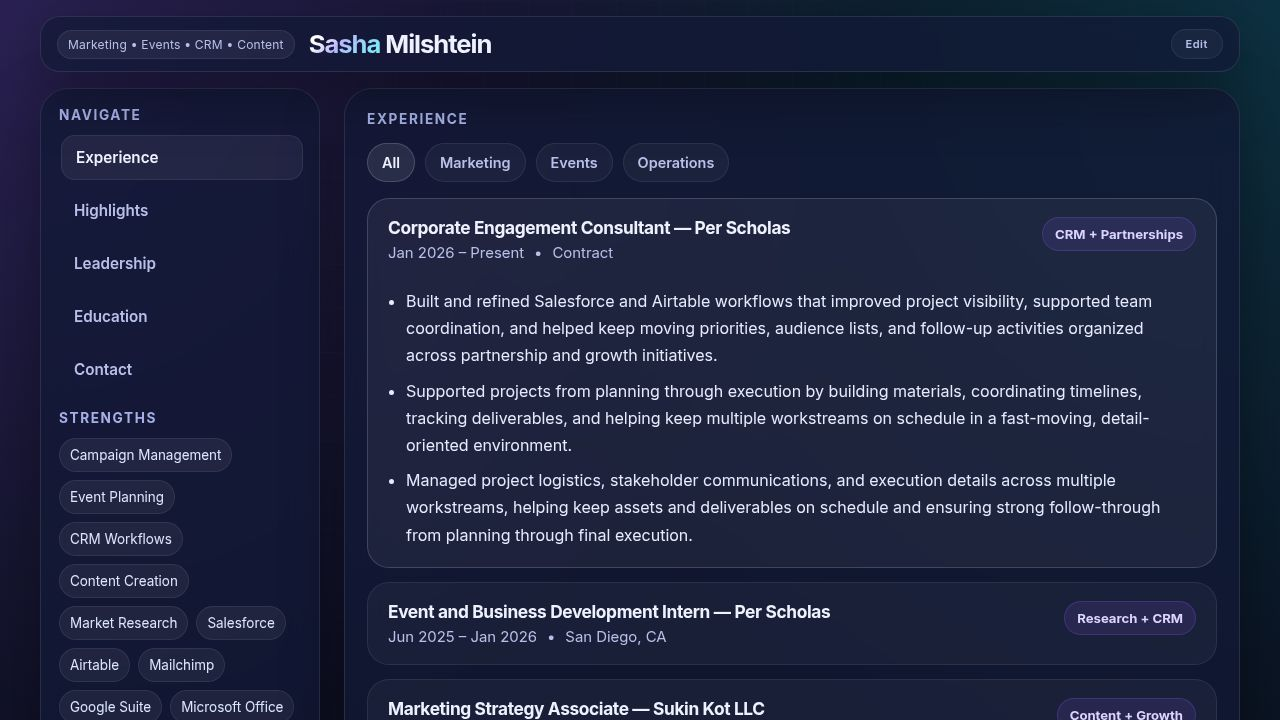
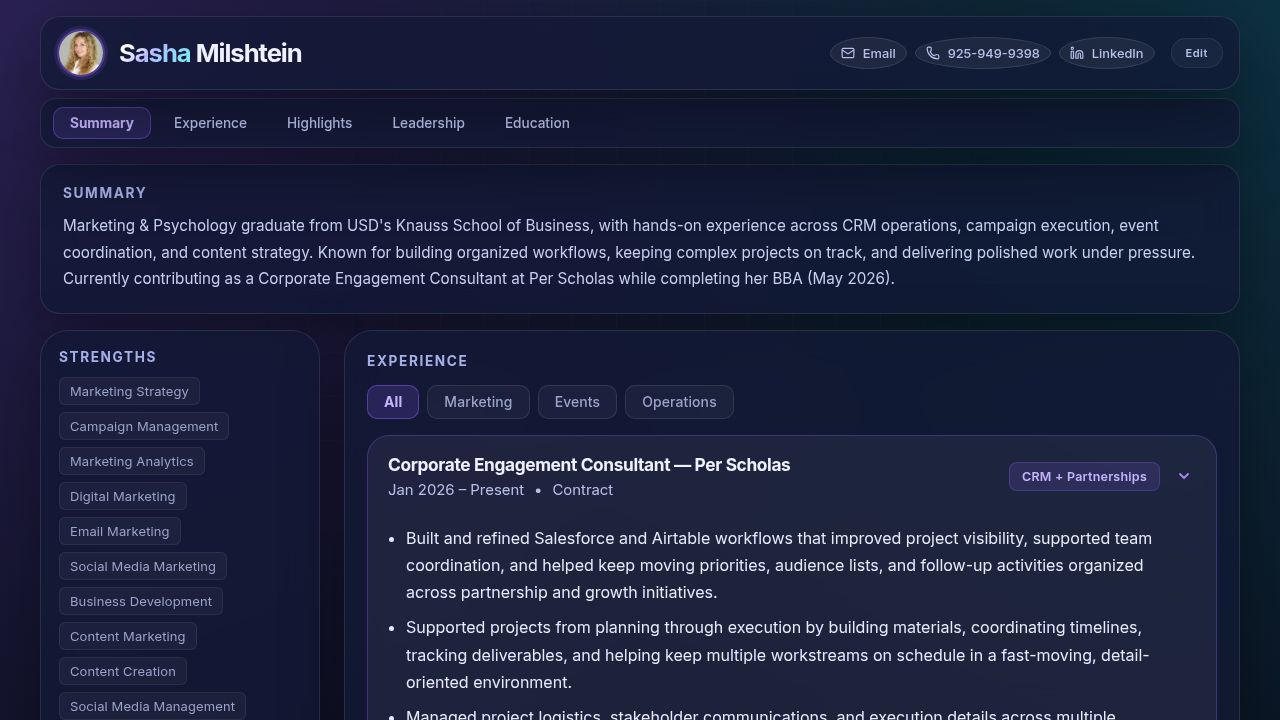
Update resume to display full contact information and add new skills
Enhance resume display by spelling out contact details in the header with icons and text, and expand the skills list within the strengths section. This commit also addresses mobile view adjustments by removing navigation buttons and refines the styling of the "Additional" section title.

Replit-Commit-Author: Agent
Replit-Commit-Session-Id: 0c83d0fb-b236-4066-a122-92c837d77948
Replit-Commit-Checkpoint-Type: full_checkpoint
Replit-Commit-Event-Id: f8de00ae-ebc2-49ac-9ba3-cfd061ba0c90
Replit-Commit-Screenshot-Url: https://storage.googleapis.com/screenshot-production-us-central1/dac110e7-5a99-40ff-85bd-418f56f37e59/0c83d0fb-b236-4066-a122-92c837d77948/EhEuLMi
Replit-Helium-Checkpoint-Created: true

diff --git a/artifacts/resume/src/pages/Resume.tsx b/artifacts/resume/src/pages/Resume.tsx
@@ -317,14 +317,17 @@ export default function Resume() {
 
         {/* Contact icon pills */}
         <div style={{ display: "flex", alignItems: "center", gap: "8px", flexShrink: 0 }}>
-          <a href={`mailto:${data.email}`} style={contactPill} title={data.email}>
+          <a href={`mailto:${data.email}`} style={{ ...contactPill, width: "auto", padding: "0 10px", gap: "8px" }} title={data.email}>
             <Mail size={14} />
+            <span style={{ fontSize: "0.8rem", fontWeight: 500 }}>Email</span>
           </a>
-          <span style={contactPill} title={data.phone}>
+          <span style={{ ...contactPill, width: "auto", padding: "0 10px", gap: "8px" }} title={data.phone}>
             <Phone size={14} />
+            <span style={{ fontSize: "0.8rem", fontWeight: 500 }}>{data.phone}</span>
           </span>
-          <a href={`https://www.linkedin.com/in/${data.linkedin}`} target="_blank" rel="noopener noreferrer" style={contactPill} title={`linkedin.com/in/${data.linkedin}`}>
+          <a href={`https://www.linkedin.com/in/${data.linkedin}`} target="_blank" rel="noopener noreferrer" style={{ ...contactPill, width: "auto", padding: "0 10px", gap: "8px" }} title={`linkedin.com/in/${data.linkedin}`}>
             <Linkedin size={14} />
+            <span style={{ fontSize: "0.8rem", fontWeight: 500 }}>LinkedIn</span>
           </a>
         </div>
 
@@ -722,7 +725,7 @@ export default function Resume() {
               }}
             >
               <p style={{ margin: "0 0 10px", fontSize: "0.75rem", textTransform: "uppercase", letterSpacing: "0.1em", color: "#6b7280" }}>
-                Additional
+                <span style={{ fontSize: "0.85rem", letterSpacing: "0.12em", color: "#a5b0e6", fontWeight: 600 }}>Additional</span>
               </p>
               {isEditing ? (
                 <p style={{ margin: 0, color: "#c8d0f0", lineHeight: 1.65, fontSize: "0.88rem" }}>

diff --git a/artifacts/resume/src/data/resumeData.ts b/artifacts/resume/src/data/resumeData.ts
@@ -70,12 +70,17 @@ export const defaultResumeData: ResumeData = {
     "Email Marketing",
     "Social Media Marketing",
     "Business Development",
+    "Content Marketing",
+    "Content Creation",
+    "Social Media Management",
+    "Social Media Communications",
     "Event Planning",
     "CRM Workflows",
-    "Content Creation",
     "Market Research",
     "Presentation Skills",
     "Generative AI for Marketing",
+    "Prompt Engineering",
+    "Data Management",
     "Salesforce",
     "Airtable",
     "Mailchimp",

diff --git a/artifacts/resume/src/index.css b/artifacts/resume/src/index.css
@@ -69,6 +69,10 @@ a {
     display: none !important;
   }
 
+  .resume-layout > nav {
+    display: none !important;
+  }
+
   /* filter buttons: single scrollable row */
   .filter-row {
     flex-wrap: nowrap !important;
